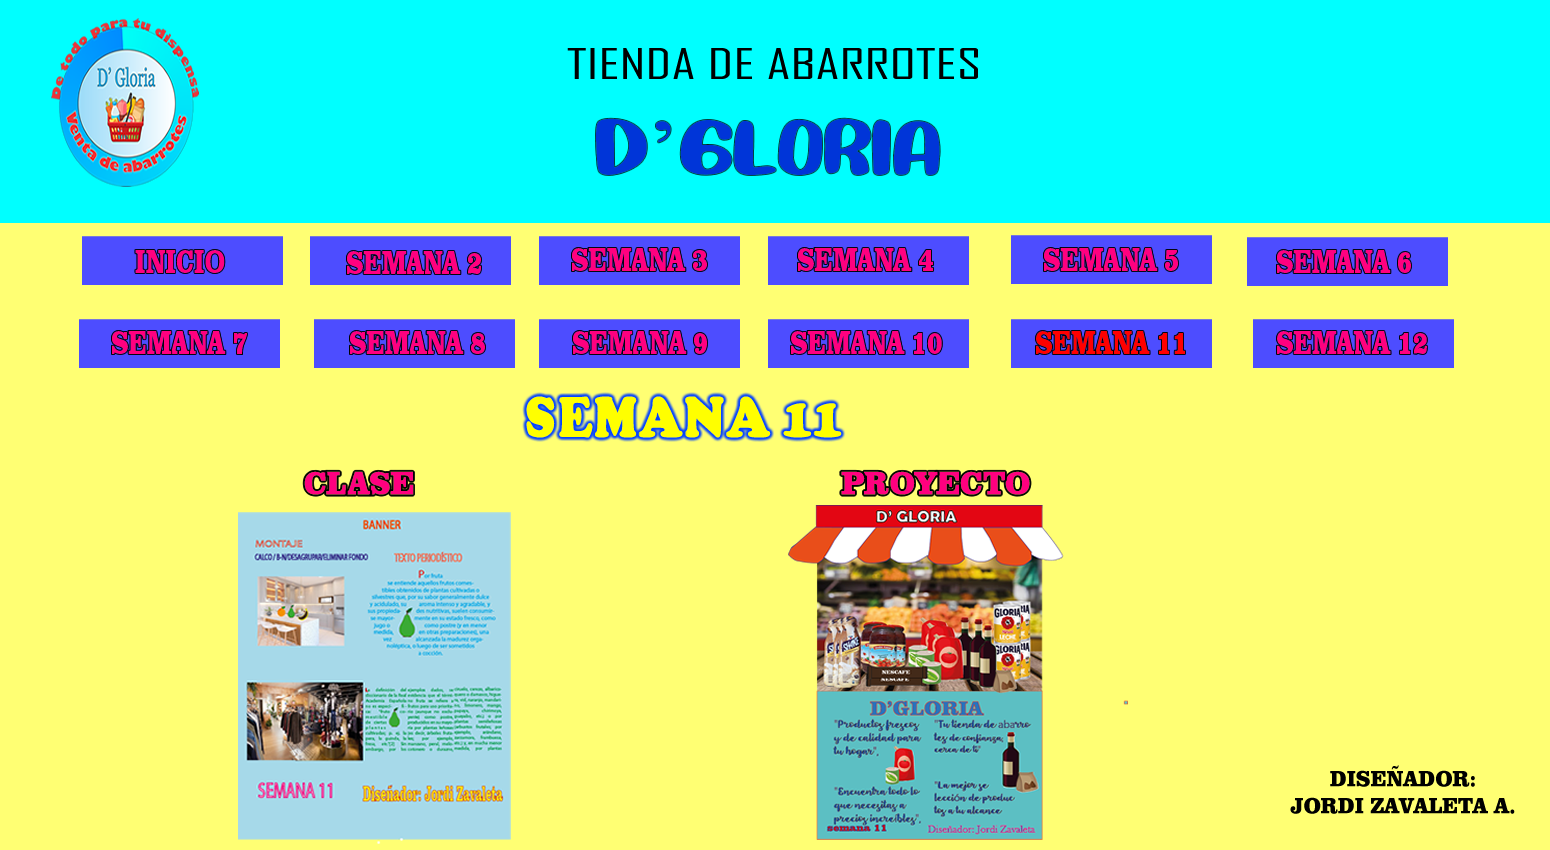
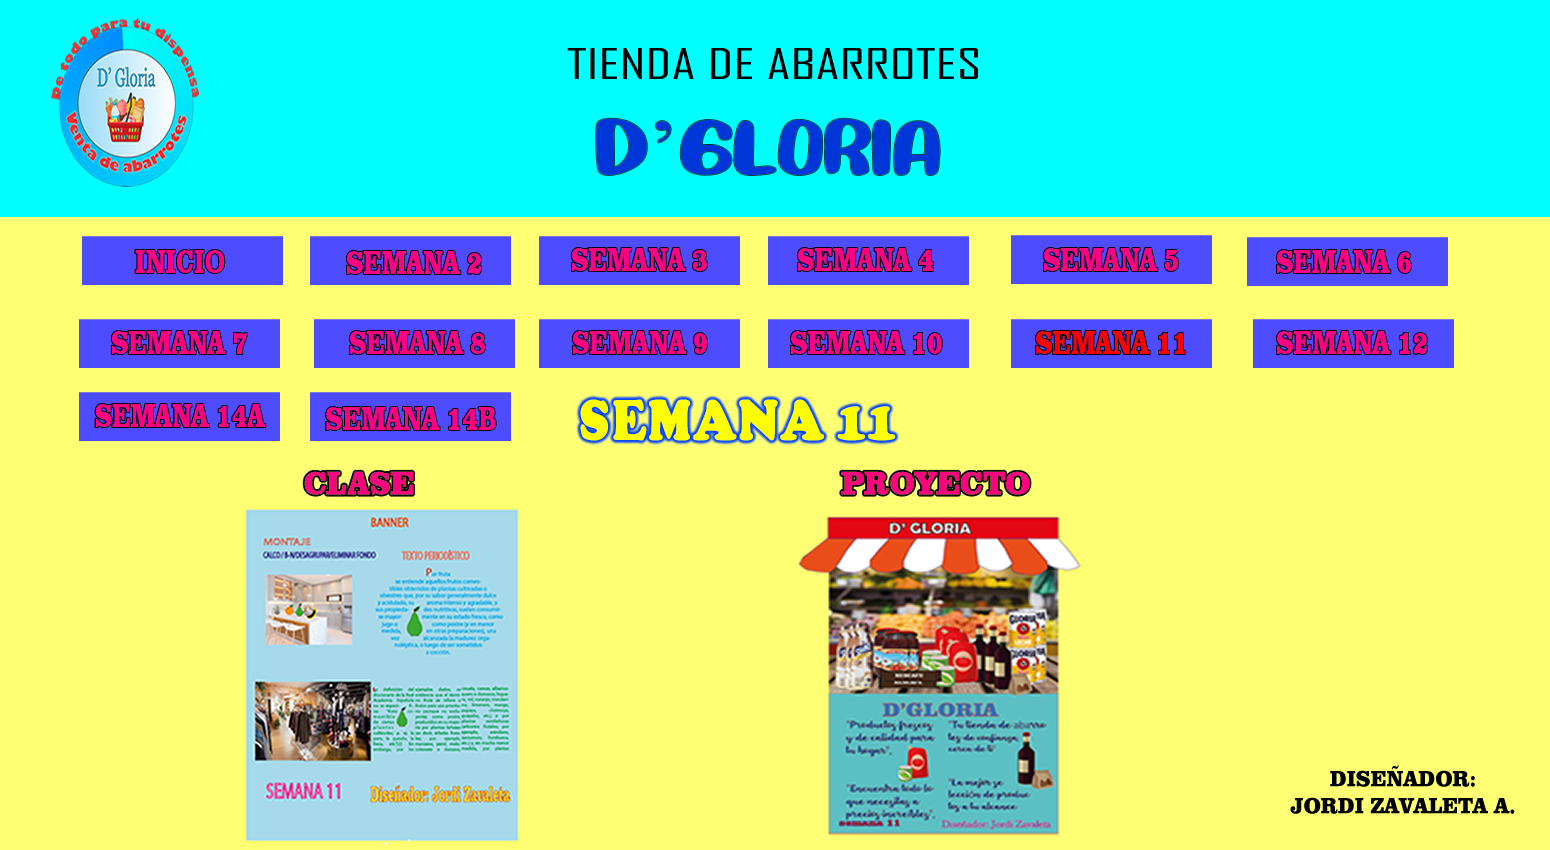
Add files via upload

diff --git a/s11.html b/s11.html
@@ -5,9 +5,8 @@
 <head>
 <title>s11</title>
 <meta http-equiv="Content-Type" content="text/html; charset=utf-8" />
-<!--Fireworks CS6 Dreamweaver CS6 target.  Created Tue Jul 22 09:13:45 GMT-0500 2025-->
+<!--Fireworks CS6 Dreamweaver CS6 target.  Created Tue Jul 22 18:16:34 GMT-0500 2025-->
 </head>
-<center>
 <body bgcolor="#ffffff">
 <img name="s11" src="s11.png" width="1550" height="850" id="s11" usemap="#m_s11" alt="" /><map name="m_s11" id="m_s11">
 <area shape="rect" coords="310,392,511,441" href="s14b.html" alt="" />
@@ -27,5 +26,4 @@
 <area shape="rect" coords="82,236,283,285" href="index.html" alt="" />
 </map>
 </body>
-</center>
 </html>
